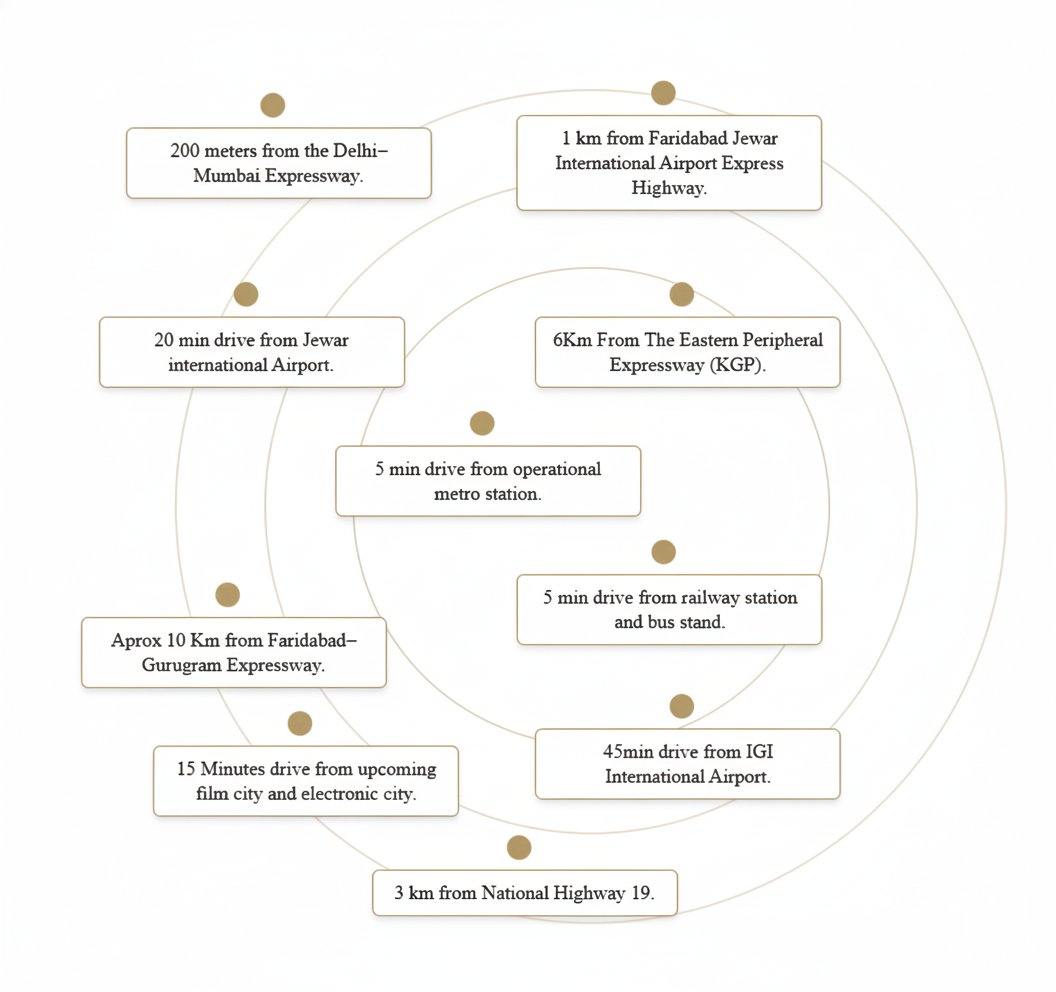
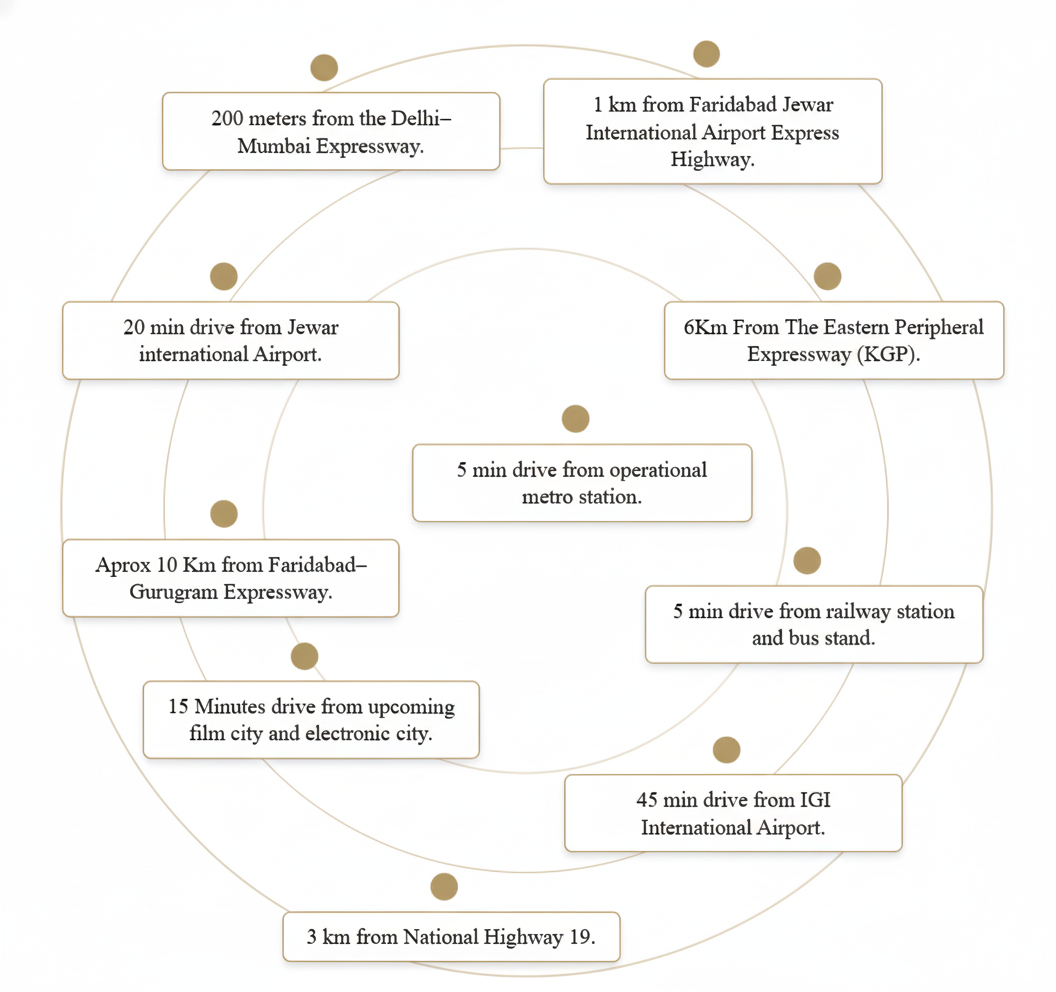
new

diff --git a/src/app/Component/LocationAdvantages.jsx b/src/app/Component/LocationAdvantages.jsx
@@ -12,15 +12,15 @@ export default function CircleAdvantages({ openForm }) {
   }, []);
 
   const locations = [
-    { label: "200 meters from the Delhi–Mumbai Expressway.", x: "15%", y: "8%" },
-    { label: "1 km from Faridabad Jewar International Airport Express Highway.", x: "58%", y: "8%" },
-    { label: "20 min drive from Jewar international Airport.", x: "12%", y: "30%" },
-    { label: "6Km From The Eastern Peripheral Expressway (KGP).", x: "60%", y: "30%" },
-    { label: "5 min drive from operational metro station.", x: "38%", y: "45%" },
-    { label: "Aprox 10 Km from Faridabad–Gurugram Expressway.", x: "10%", y: "65%" },
-    { label: "5 min drive from railway station and bus stand.", x: "58%", y: "60%" },
-    { label: "15 Minutes drive from upcoming film city and electronic city.", x: "18%", y: "80%" },
-    { label: "45min drive from IGI International Airport.", x: "60%", y: "78%" },
+    { label: "200 meters from the Delhi–Mumbai Expressway.", x: "30%", y: "8%" },
+    { label: "1 km from Faridabad Jewar International Airport Express Highway.", x: "68%", y: "8%" },
+    { label: "20 min drive from Jewar international Airport.", x: "20%", y: "30%" },
+    { label: "6Km From The Eastern Peripheral Expressway (KGP).", x: "80%", y: "30%" },
+    { label: "5 min drive from operational metro station.", x: "55%", y: "45%" },
+    { label: "Aprox 10 Km from Faridabad–Gurugram Expressway.", x: "20%", y: "55%" },
+    { label: "5 min drive from railway station and bus stand.", x: "78%", y: "60%" },
+    { label: "15 Minutes drive from upcoming film city and electronic city.", x: "28%", y: "70%" },
+    { label: "45 min drive from IGI International Airport.", x: "70%", y: "80%" },
     { label: "3 km from National Highway 19.", x: "42%", y: "93%" }
   ];
 

diff --git a/src/app/Component/Hero2.jsx b/src/app/Component/Hero2.jsx
@@ -34,7 +34,7 @@ export default function BannerSection({ openForm }) {
     postData.append('msg', formData.message);
     try {
       await fetch(
-        "https://script.google.com/macros/s/AKfycbxWiMUcPaFPm7V_aQVwtg2D4Ft2A5BybcWAPSuLzrLlHa34BxAAWsXo_QRRkWZxa2D7/exec",
+        "https://script.google.com/macros/s/AKfycby7BeiW-_ofDfnVRL817Eu564ze751pjNh-O2b7qxsDFqSoTE5pvJUOHfYwXsYye8hW/exec",
         {
           method: "POST",
           mode: "no-cors",

diff --git a/src/app/Component/ContactForm.jsx b/src/app/Component/ContactForm.jsx
@@ -30,7 +30,7 @@ export default function EnquiryForm({ isOpen, closeForm }) {
 
     try {
       const res = await fetch(
-        "https://script.google.com/macros/s/AKfycbxWiMUcPaFPm7V_aQVwtg2D4Ft2A5BybcWAPSuLzrLlHa34BxAAWsXo_QRRkWZxa2D7/exec",
+        "https://script.google.com/macros/s/AKfycby7BeiW-_ofDfnVRL817Eu564ze751pjNh-O2b7qxsDFqSoTE5pvJUOHfYwXsYye8hW/exec",
         {
           method: 'POST',
           body: postData,

diff --git a/src/app/Component/ContactSection.jsx b/src/app/Component/ContactSection.jsx
@@ -40,7 +40,7 @@ export default function ContactShowcase() {
 
     try {
       await fetch(
-        "https://script.google.com/macros/s/AKfycbxWiMUcPaFPm7V_aQVwtg2D4Ft2A5BybcWAPSuLzrLlHa34BxAAWsXo_QRRkWZxa2D7/exec",
+        "https://script.google.com/macros/s/AKfycby7BeiW-_ofDfnVRL817Eu564ze751pjNh-O2b7qxsDFqSoTE5pvJUOHfYwXsYye8hW/exec",
         {
           method: "POST",
           mode: "no-cors",

diff --git a/src/app/Component/Footer.jsx b/src/app/Component/Footer.jsx
@@ -40,7 +40,7 @@ export default function Footer() {
 
             {/* Facebook Square */}
             <a
-              href="https://facebook.com"
+              href="https://www.facebook.com/share/16skNLhPE5/?mibextid=wwXIfr"
               target="_blank"
               className="hover:opacity-70 transition rounded-md"
             >
